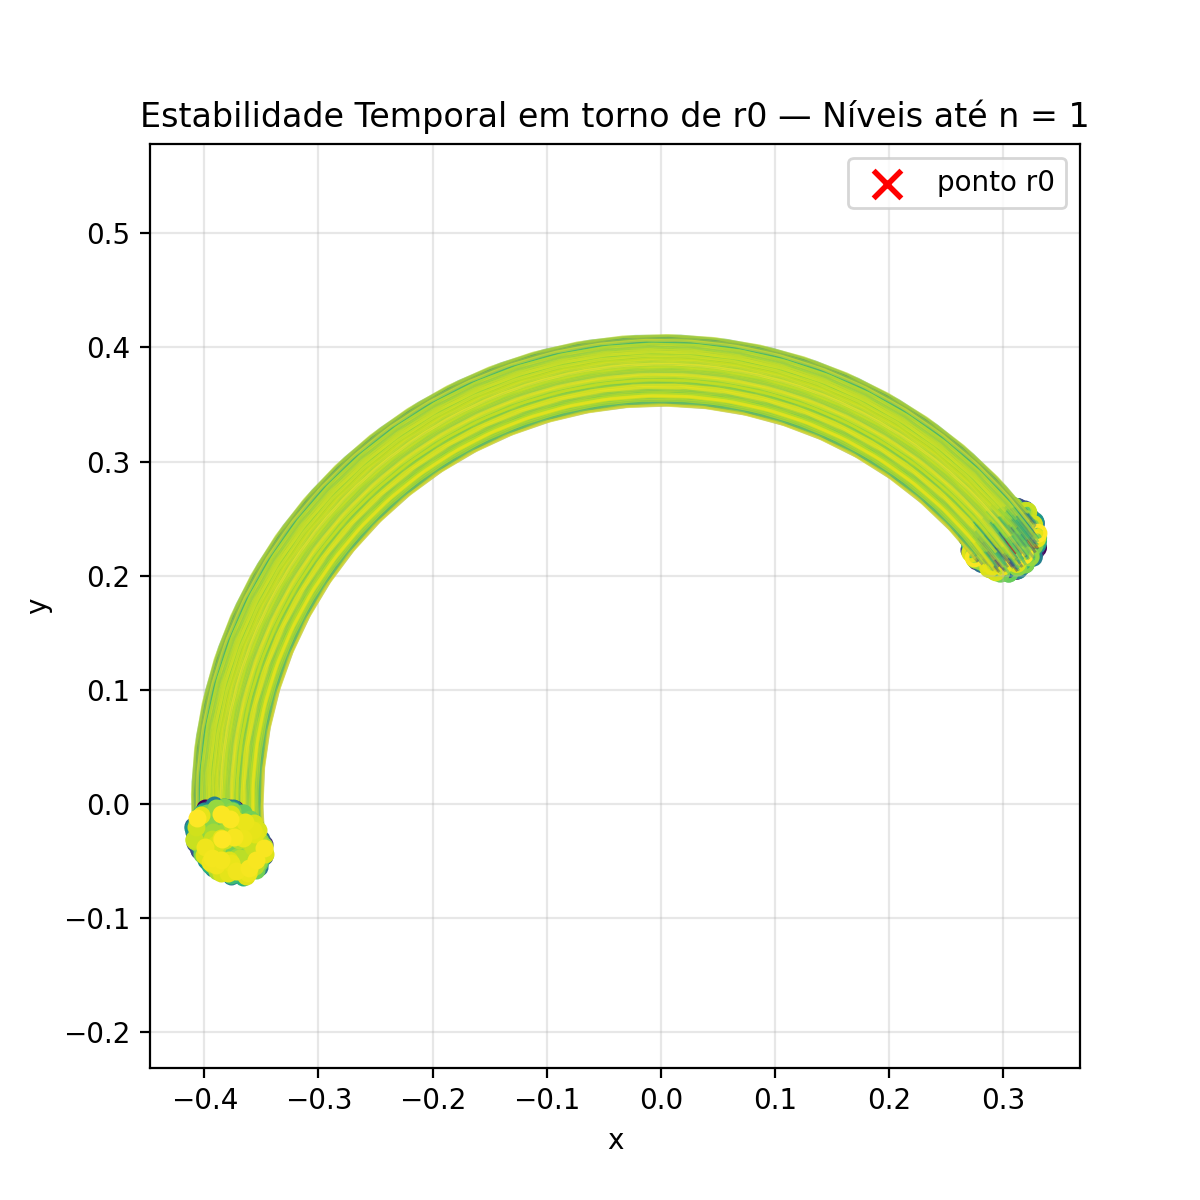
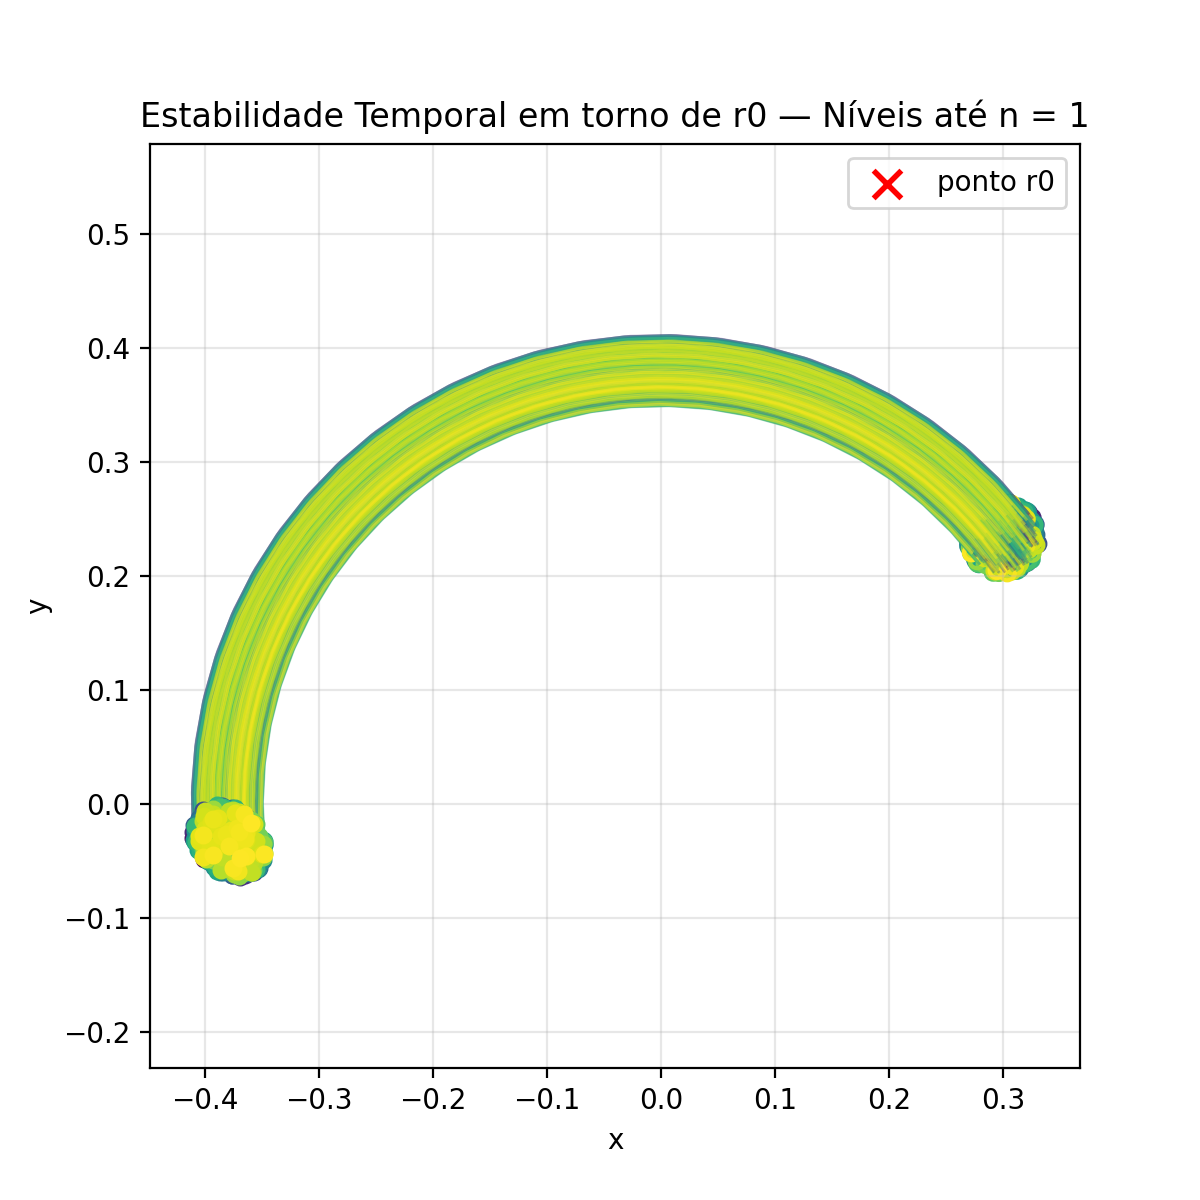
colocando pasta de config

Changed region(s): [[0.1542, 0.2775, 0.8942, 0.74], [0.0925, 0.185, 0.1233, 0.2158]]

diff --git a/plot_campos.py b/plot_campos.py
@@ -120,7 +120,14 @@ def plot_campo_e_intensidade(N, t=0.0, L=1.5, x_0=0.0, y_0=0.0, resolucao=200, f
     plt.tight_layout()
     if caminho_salvar:
         import os
-        if os.path.isdir(caminho_salvar):
+        from config import obter_caminho_config
+        
+        if isinstance(caminho_salvar, bool) and caminho_salvar:
+            pasta_dest = obter_caminho_config(subpasta="campos")
+            func_name = func.__name__ if func is not None else "desconhecido"
+            nome_arquivo = f"campo_e_intensidade_nivel_{N:02d}_t{t:.2f}_L{L:.2f}_x0_{x_0:.2f}_y0_{y_0:.2f}_{func_name}.png"
+            caminho_final = os.path.join(pasta_dest, nome_arquivo)
+        elif os.path.isdir(caminho_salvar):
             func_name = func.__name__ if func is not None else "desconhecido"
             nome_arquivo = f"campo_e_intensidade_nivel_{N:02d}_t{t:.2f}_L{L:.2f}_x0_{x_0:.2f}_y0_{y_0:.2f}_{func_name}.png"
             caminho_final = os.path.join(caminho_salvar, nome_arquivo)
@@ -131,7 +138,8 @@ def plot_campo_e_intensidade(N, t=0.0, L=1.5, x_0=0.0, y_0=0.0, resolucao=200, f
             caminho_final = os.path.join(caminho_salvar, nome_arquivo)
         else:
             caminho_final = caminho_salvar
-            os.makedirs(os.path.dirname(caminho_final), exist_ok=True)
+            
+        os.makedirs(os.path.dirname(caminho_final), exist_ok=True)
         plt.savefig(caminho_final, dpi=300)
         print(f"Gráfico salvo em: {caminho_final}")
     else:
@@ -146,9 +154,12 @@ def salvar_por_nivel(
     y_0=.3,
     resolucao=200,
     func=None,
-    pasta="resultados/campos",
+    pasta=None,
     N_min = 1
 ):
+    from config import obter_caminho_config
+    if pasta is None:
+        pasta = obter_caminho_config(subpasta="campos")
 
     import os
     os.makedirs(pasta, exist_ok=True)
@@ -213,8 +224,8 @@ if __name__ == "__main__":
         N_min= 9
     )'''
     plot_campo_e_intensidade(N=3,
-        t=0,
+        t=0.20,
         func=campos.campo_total_podado,
-        resolucao=400
+        resolucao=400, caminho_salvar= True
     )
 

diff --git a/integradores.py b/integradores.py
@@ -83,7 +83,7 @@ def testar_estabilidade_estatico(
     nivel_max,
     N_particulas,
     r0,
-    pasta_saida="resultados/estabilidade/estatico",
+    pasta_saida=None,
     nivel_min = 1,
     funcao = None,
     c = None,
@@ -96,6 +96,9 @@ def testar_estabilidade_estatico(
       - plota as trajetórias
       - salva a figura em disco
     """
+    from config import obter_caminho_config
+    if pasta_saida is None:
+        pasta_saida = obter_caminho_config(alpha, c, subpasta="estabilidade/estatico")
 
     os.makedirs(pasta_saida, exist_ok=True)
     
@@ -192,8 +195,8 @@ def testar_estabilidade_temporal(
     nivel_max,
     N_particulas,
     r0,
-    pasta_saida="resultados/estabilidade/temporal",
-    pasta_saida_info = "resultados/estabilidade/temporal/info",
+    pasta_saida=None,
+    pasta_saida_info = None,
     nivel_min = 1,
     funcao = None,
     temporal = True,
@@ -207,6 +210,11 @@ def testar_estabilidade_temporal(
       - plota as trajetórias
       - salva a figura em disco
     """
+    from config import obter_caminho_config
+    if pasta_saida is None:
+        pasta_saida = obter_caminho_config(alpha, c, subpasta="estabilidade/temporal")
+    if pasta_saida_info is None:
+        pasta_saida_info = obter_caminho_config(alpha, c, subpasta="estabilidade/temporal/info")
     
     os.makedirs(pasta_saida, exist_ok=True)
     os.makedirs(pasta_saida_info, exist_ok=True)

diff --git a/config.py b/config.py
@@ -22,3 +22,25 @@ alpha_padrao = np.sqrt(2)
 # c: Parâmetro C da função bump. Controla a suavidade e inclinação 
 # do decaimento da velocidade local induzida por cada vórtice/centro.
 c_padrao = 0.6
+
+
+def obter_caminho_config(alpha=None, c=None, subpasta=None):
+    """
+    Retorna o caminho da pasta de resultados baseado na configuração física ativa.
+    Estrutura: resultados/config_R1_{R_1}_T1_{T_1}_lamb_{lamb:.3f}_alpha_{alpha:.3f}_c_{c:.3f}/[subpasta]
+    """
+    import os
+    a = alpha if alpha is not None else alpha_padrao
+    cv = c if c is not None else c_padrao
+    
+    # Nome identificador da configuração
+    nome_config = f"config_R1_{R_1:.2f}_T1_{T_1:.2f}_l_{lamb:.3f}_a_{a:.3f}_c_{cv:.3f}"
+    
+    # Obtém o caminho absoluto do diretório do projeto (onde config.py reside)
+    diretorio_projeto = os.path.dirname(os.path.abspath(__file__))
+    caminho = os.path.join(diretorio_projeto, "resultados", nome_config)
+    
+    if subpasta:
+        caminho = os.path.join(caminho, subpasta)
+    return caminho
+

diff --git a/comparar.py b/comparar.py
@@ -49,7 +49,8 @@ print(
  tempo_full/tempo_podado
 )
 
-pasta_saida = os.path.join(os.path.dirname(os.path.abspath(__file__)), "resultados", "comparacoes")
+from config import obter_caminho_config
+pasta_saida = obter_caminho_config(subpasta="comparacoes")
 os.makedirs(pasta_saida, exist_ok=True)
 arquivo = os.path.join(pasta_saida, f"temporal_speedup_nmax{nmax}_t{t:.2f}_Nrep{Nrep}.txt")
 
@@ -138,7 +139,8 @@ print(f"Erro relativo médio  = {erro_rel_med:.3e}")
 # Salvar em arquivo
 # ----------------------------
 
-pasta_saida = os.path.join(os.path.dirname(os.path.abspath(__file__)), "resultados", "comparacoes")
+from config import obter_caminho_config
+pasta_saida = obter_caminho_config(subpasta="comparacoes")
 os.makedirs(pasta_saida, exist_ok=True)
 arquivo = os.path.join(pasta_saida, f"correcao_erro_nmax{nmax}_t{t:.2f}_grade{Nx}x{Ny}.txt")
 

diff --git a/campos.py b/campos.py
@@ -176,16 +176,14 @@ def campo_total_podado(
 if __name__ =="__main__":
 
     r0 = np.array([[.3, .2333]])
-    c = 'resultados/estabilidade/temporal_podada'
 
     it.testar_estabilidade_temporal(
         nivel_max=2,
         N_particulas=500,
         r0=r0,
         nivel_min = 1,
-        pasta_saida= c,
         funcao=campo_total_podado,
-        pasta_saida_info= 'resultados/estabilidade/temporal_podada/info'
+    
     )
 
 
